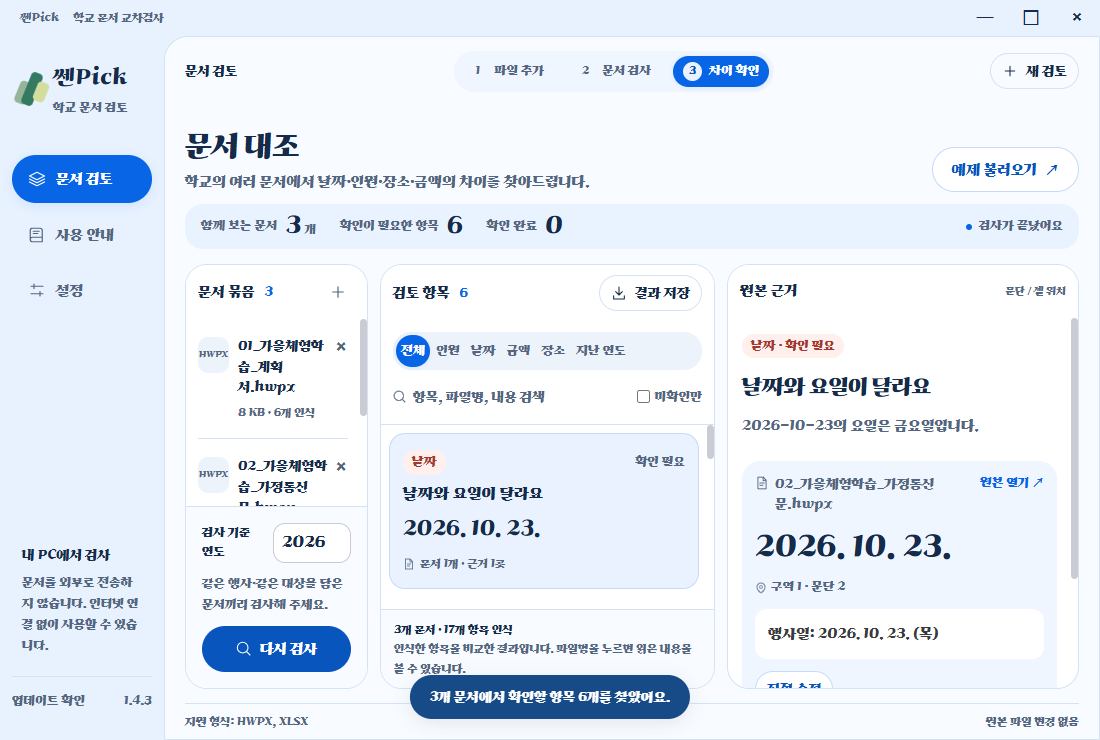
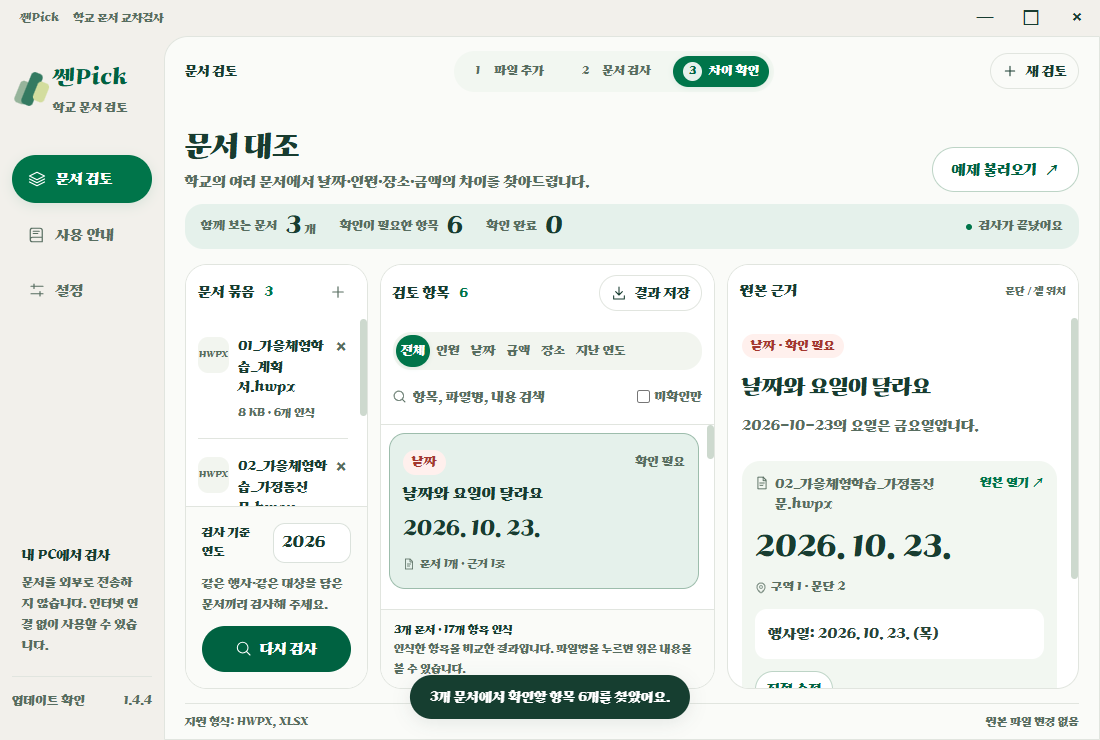
Match SsenImage green palette and refresh showcase for 1.4.4

diff --git a/app/styles.css b/app/styles.css
@@ -5,9 +5,9 @@
   font-weight: 400;
   font-display: swap;
 }
-/* Muse-inspired visual language, implemented locally; not an official Meta UI kit.
+/* Warm neutral and green palette matched to the user-provided SsenImage app reference.
    Surfaces: 22px; nested content and inputs: 14px; interactive pills: 999px. */
-:root { color-scheme: light; --bg: #e8f2ff; --paper: #fff; --ink: #162b49; --muted: #536681; --line: #d4e2f3; --accent: #0866e6; --accent-strong: #0755bd; --accent-soft: #eaf2ff; --surface-blue: #f0f6ff; --highlight: #dbe9ff; --red: #b13930; }
+:root { color-scheme: light; --bg: #f2f0eb; --paper: #fff; --ink: #183c30; --muted: #576d60; --line: #e1e5df; --accent: #00754a; --accent-strong: #006241; --accent-soft: #e5f1eb; --surface-soft: #f2f7f1; --highlight: #d4e9e2; --red: #b13930; }
 * { box-sizing: border-box; font-synthesis: none; }
 [hidden] { display: none !important; }
 body { margin: 0; background: var(--bg); color: var(--ink); font: 14px/1.55 Ghanachocolate, 'Malgun Gothic', sans-serif; overflow: hidden; }
@@ -31,12 +31,12 @@ p { color: var(--muted); }
 .titlebar-label span { margin-left: 12px; }
 .window-actions { display: flex; height: 100%; app-region: no-drag; }
 .window-actions button { border: 0; background: none; width: 46px; font-size: 17px; }
-.window-actions button:hover { background: #e7e8eb; }
+.window-actions button:hover { background: #e9ebe5; }
 .window-actions button:last-child:hover { background: #b6362c; color: #fff; }
 .app-shell { display: flex; height: calc(100dvh - 36px); }
 .sidebar { width: 196px; flex-shrink: 0; padding: 26px 16px 14px; background: var(--bg); display: flex; flex-direction: column; }
 .brand { display: flex; align-items: center; gap: 10px; text-decoration: none; color: var(--ink); font-size: 24px; font-weight: 400; letter-spacing: -.8px; margin: 0 4px 38px; }
-.brand-wordmark { font-family: Ghanachocolate, sans-serif; font-weight: 400; font-synthesis: none; letter-spacing: 0; white-space: nowrap; }
+.brand-wordmark { color: var(--accent-strong); font-family: Ghanachocolate, sans-serif; font-weight: 400; font-synthesis: none; letter-spacing: 0; white-space: nowrap; }
 .brand small { display: block; font-size: 12px; letter-spacing: 0; color: var(--muted); font-weight: 400; margin-top: 4px; white-space: nowrap; }
 .brand-mark { height: 36px; width: 30px; position: relative; display: block; flex-shrink: 0; }
 .brand-mark i { position: absolute; width: 12px; border-radius: 4px; background: #347a61; transform: rotate(22deg); }
@@ -44,14 +44,14 @@ p { color: var(--muted); }
 .brand-mark i:nth-child(2) { height: 34px; left: 10px; }
 .brand-mark i:nth-child(3) { height: 20px; left: 19px; top: 10px; background: #d3dd9e; }
 .nav-item { width: 100%; display: flex; align-items: center; gap: 10px; border: 0; border-radius: 999px; background: none; padding: 13px 16px; color: var(--muted); text-align: left; margin-bottom: 8px; font-size: 14px; min-height: 46px; }
-.nav-item:hover { background: #d8e9ff; }
-.nav-item.active { color: #fff; background: var(--accent); font-weight: 400; box-shadow: 0 3px 12px #0866e61c; }
+.nav-item:hover { background: #d4e9e2; }
+.nav-item.active { color: #fff; background: var(--accent); font-weight: 400; box-shadow: 0 3px 12px #00754a1c; }
 .nav-dot { display: none; }
 .sidebar-note { margin-top: auto; padding: 18px 10px 20px; }
 .sidebar-note strong { font-size: 13px; color: var(--ink); }
 .sidebar-note p { font-size: 12px; line-height: 1.75; margin-top: 7px; }
 .sidebar-footer { display: flex; justify-content: space-between; font-size: 11px; color: var(--muted); margin: 25px 4px 0; }
-main { flex: 1; min-width: 0; min-height: 0; display: flex; flex-direction: column; overflow: hidden; background: #f8fbff; border: 1px solid var(--line); border-radius: 24px 0 0 0; }
+main { flex: 1; min-width: 0; min-height: 0; display: flex; flex-direction: column; overflow: hidden; background: #fafbf8; border: 1px solid var(--line); border-radius: 24px 0 0 0; }
 .page-header { height: 68px; flex-shrink: 0; padding: 0 30px; display: flex; align-items: center; justify-content: space-between; gap: 20px; }
 .breadcrumb { font-size: 13px; }
 .header-actions { display: flex; align-items: center; gap: 16px; }
@@ -62,7 +62,7 @@ main { flex: 1; min-width: 0; min-height: 0; display: flex; flex-direction: colu
 .button svg { width: 16px; height: 16px; }
 .primary { background: var(--accent); color: #fff; }
 .primary:hover:not(:disabled) { background: var(--accent-strong); }
-.secondary { background: var(--paper); border-color: #c6dafa; color: var(--accent-strong); }
+.secondary { background: var(--paper); border-color: #bdd4c6; color: var(--accent-strong); }
 .secondary:hover:not(:disabled), .subtle:hover:not(:disabled) { background: var(--accent-soft); }
 .subtle { background: transparent; border-color: var(--line); color: var(--ink); }
 .small { padding: 7px 11px; min-height: 36px; font-size: 13px; }
@@ -70,8 +70,8 @@ main { flex: 1; min-width: 0; min-height: 0; display: flex; flex-direction: colu
 #review-page:not(.has-files) .heading-row p { margin-top: 10px; }
 #review-page:not(.has-files) #demo { min-height: 36px; font-size: 13px; padding: 7px 14px; background: var(--accent-soft); border: 0; }
 #empty-view { display: flex; flex-direction: column; gap: 24px; width: min(100%,780px); margin: 0 auto; flex: 1; min-height: 0; overflow: auto; padding: 3px; }
-.drop-zone { border: 1px solid #c5dafa; border-radius: 24px; background: #edf5ff; min-height: 244px; cursor: pointer; flex-shrink: 0; }
-.drop-zone:hover, .drop-zone.dragging { background: #e3efff; border-color: var(--accent); }
+.drop-zone { border: 1px solid #dbe2dc; border-radius: 24px; background: #fff; min-height: 244px; cursor: pointer; flex-shrink: 0; }
+.drop-zone:hover, .drop-zone.dragging { background: #edf5ef; border-color: var(--accent); }
 .drop-zone h2 { font-size: 25px; line-height: 1.4; letter-spacing: -.6px; }
 .drop-zone p { font-size: 14px; line-height: 1.85; margin-top: 8px; }
 .drop-zone .button { min-width: 140px; }
@@ -87,7 +87,7 @@ main { flex: 1; min-width: 0; min-height: 0; display: flex; flex-direction: colu
 .page-footer { display: flex; justify-content: space-between; gap: 16px; color: var(--muted); font-size: 11px; border-top: 1px solid var(--line); margin-top: 20px; padding: 12px 0; flex-shrink: 0; }
 .notice { padding: 12px 15px; border-left: 3px solid #986524; background: #fff6e8; border-radius: 3px; margin-bottom: 15px; color: #795322; font-size: 13px; white-space: pre-line; max-height: 115px; overflow: auto; flex-shrink: 0; }
 #workspace { display: flex; flex-direction: column; flex: 1; min-height: 0; }
-.summary-strip { display: flex; align-items: center; background: #e9f2ff; border-radius: 18px; padding: 14px 20px; margin-bottom: 20px; gap: 34px; flex-shrink: 0; }
+.summary-strip { display: flex; align-items: center; background: #e5f1eb; border-radius: 18px; padding: 14px 20px; margin-bottom: 20px; gap: 34px; flex-shrink: 0; }
 .summary-strip>div { display: flex; align-items: center; gap: 10px; }
 .summary-strip>div>div { display: flex; gap: 10px; align-items: center; }
 .summary-icon { display: none; }
@@ -107,7 +107,7 @@ main { flex: 1; min-width: 0; min-height: 0; display: flex; flex-direction: colu
 .file-panel, .result-panel, .detail-panel { display: flex; flex-direction: column; }
 .file-list { overflow-y: auto; flex: 1; min-height: 0; padding: 0 12px; }
 .file-item { display: flex; align-items: flex-start; gap: 9px; padding: 17px 17px 17px 0; border-bottom: 1px solid var(--line); position: relative; }
-.file-type { flex-shrink: 0; width: 36px; height: 36px; border-radius: 10px; background: #edf3fb; color: var(--muted); font-size: 10px; font-weight: 400; display: flex; align-items: center; justify-content: center; margin-top: 1px; }
+.file-type { flex-shrink: 0; width: 36px; height: 36px; border-radius: 10px; background: #f2f5ef; color: var(--muted); font-size: 10px; font-weight: 400; display: flex; align-items: center; justify-content: center; margin-top: 1px; }
 .file-type.xlsx { color: var(--accent); background: var(--accent-soft); }
 .file-text { min-width: 0; flex: 1; }
 .file-name { display: block; border: 0; background: none; padding: 0; text-align: left; font-size: 14px; line-height: 1.6; overflow-wrap: anywhere; }
@@ -115,15 +115,15 @@ main { flex: 1; min-width: 0; min-height: 0; display: flex; flex-direction: colu
 .file-text small { color: var(--muted); font-size: 11px; display: block; margin-top: 6px; }
 .file-remove { position: absolute; top: 13px; right: -7px; width: 28px; height: 28px; padding: 2px 4px; background: none; border: 0; font-size: 18px; color: var(--muted); }
 .file-remove:hover { color: var(--red); }
-.file-bottom { padding: 16px; border-top: 1px solid var(--line); background: #f8fbff; flex-shrink: 0; }
+.file-bottom { padding: 16px; border-top: 1px solid var(--line); background: #fafbf8; flex-shrink: 0; }
 .file-bottom label { display: flex; justify-content: space-between; font-size: 13px; margin-bottom: 8px; }
-.file-bottom input { width: 100%; border: 1px solid #c8cbd1; border-radius: 12px; background: var(--paper); padding: 8px 10px; font-size: 16px; }
+.file-bottom input { width: 100%; border: 1px solid #dbe2dc; border-radius: 12px; background: var(--paper); padding: 8px 10px; font-size: 16px; }
 .file-bottom p { font-size: 12px; line-height: 1.7; margin: 12px 0; }
 .file-bottom .button { width: 100%; }
 .result-tools { padding: 11px 12px 0; border-bottom: 1px solid var(--line); flex-shrink: 0; }
-.filters { display: flex; gap: 2px; flex-wrap: wrap; margin-bottom: 10px; background: #edf3fb; border-radius: 18px; padding: 4px; }
+.filters { display: flex; gap: 2px; flex-wrap: wrap; margin-bottom: 10px; background: #f2f5ef; border-radius: 18px; padding: 4px; }
 .filter { background: none; border: 0; border-radius: 999px; font-size: 13px; padding: 6px 7px; min-height: 32px; color: var(--muted); }
-.filter.active { background: var(--accent); color: #fff; font-weight: 400; box-shadow: 0 1px 5px #0866e61a; }
+.filter.active { background: var(--accent); color: #fff; font-weight: 400; box-shadow: 0 1px 5px #00754a1a; }
 .search-row { display: flex; align-items: center; gap: 6px; margin-bottom: 10px; }
 .search-row>span svg { width: 14px; height: 14px; color: var(--muted); }
 .search-row>input { width: 80px; min-width: 0; flex: 1; font-size: 13px; border: 0; padding: 7px 0; background: none; }
@@ -132,8 +132,8 @@ main { flex: 1; min-width: 0; min-height: 0; display: flex; flex-direction: colu
 .search-row input[type=checkbox] { width: 13px; height: 13px; accent-color: var(--accent); margin: 0; }
 .result-list { flex: 1; min-height: 0; overflow-y: auto; padding: 8px; }
 .issue-card { width: 100%; text-align: left; background: var(--paper); border: 1px solid transparent; border-radius: 16px; padding: 16px 13px; display: block; margin-bottom: 5px; }
-.issue-card:hover { background: #f6f7f9; }
-.issue-card.selected { background: var(--accent-soft); border-color: #c5d9fb; }
+.issue-card:hover { background: #f5f6f2; }
+.issue-card.selected { background: var(--accent-soft); border-color: #9dbdac; }
 .issue-top { display: flex; align-items: center; justify-content: space-between; margin-bottom: 7px; gap: 6px; }
 .tag { font-size: 12px; display: inline-flex; align-items: center; border-radius: 999px; background: #fff4e3; color: #795322; padding: 3px 9px; }
 .tag.error { background: #fff0ed; color: #a4372e; }
@@ -144,10 +144,10 @@ main { flex: 1; min-width: 0; min-height: 0; display: flex; flex-direction: colu
 .issue-source { display: flex; align-items: center; gap: 5px; font-size: 11px; color: var(--muted); margin-top: 10px; }
 .issue-source svg { height: 12px; width: 12px; }
 .issue-card.reviewed .issue-status { color: var(--accent); }
-.coverage-note { font-size: 11px; color: var(--muted); background: #f8fbff; border-top: 1px solid var(--line); padding: 10px 13px; line-height: 1.75; flex-shrink: 0; }
+.coverage-note { font-size: 11px; color: var(--muted); background: #fafbf8; border-top: 1px solid var(--line); padding: 10px 13px; line-height: 1.75; flex-shrink: 0; }
 .coverage-note b { color: var(--ink); }
 .empty-state { text-align: center; display: flex; flex-direction: column; align-items: center; justify-content: center; height: 100%; min-height: 180px; padding: 24px 16px; }
-.state-icon { margin-bottom: 14px; color: #777b82; }
+.state-icon { margin-bottom: 14px; color: #718378; }
 .state-icon svg { height: 25px; width: 25px; }
 .empty-state h3 { font-size: 16px; margin-bottom: 10px; }
 .empty-state p { font-size: 13px; line-height: 1.8; }
@@ -157,7 +157,7 @@ main { flex: 1; min-width: 0; min-height: 0; display: flex; flex-direction: colu
 .detail-inner { padding: 20px 18px; }
 .detail-title { font-size: 23px; line-height: 1.45; letter-spacing: -.7px; margin: 14px 0 10px; }
 .detail-description { font-size: 14px; line-height: 1.8; margin-bottom: 23px; }
-.evidence { background: var(--surface-blue); border-radius: 18px; padding: 17px; margin-bottom: 14px; }
+.evidence { background: var(--surface-soft); border-radius: 18px; padding: 17px; margin-bottom: 14px; }
 .evidence-top { display: flex; align-items: flex-start; gap: 6px; font-size: 13px; color: var(--muted); }
 .evidence-top span { overflow-wrap: anywhere; flex: 1; }
 .evidence-top svg { width: 14px; height: 14px; flex-shrink: 0; margin-top: 2px; }
@@ -166,7 +166,7 @@ main { flex: 1; min-width: 0; min-height: 0; display: flex; flex-direction: colu
 .evidence-value { font-size: 30px; color: var(--ink); font-weight: 400; margin: 12px 0 10px; word-break: break-word; line-height: 1.4; font-variant-numeric: tabular-nums; }
 .evidence-location { font-size: 12px; color: var(--muted); display: flex; align-items: center; gap: 4px; }
 .evidence-location svg { width: 12px; height: 12px; }
-.excerpt { background: #fff; border-radius: 12px; margin-top: 12px; padding: 12px 13px; font-size: 14px; line-height: 1.85; color: #383b40; overflow-wrap: anywhere; white-space: pre-line; }
+.excerpt { background: #fff; border-radius: 12px; margin-top: 12px; padding: 12px 13px; font-size: 14px; line-height: 1.85; color: #284638; overflow-wrap: anywhere; white-space: pre-line; }
 .detail-bottom { border-top: 1px solid var(--line); padding-top: 17px; }
 .detail-bottom .button { width: 100%; }
 .detail-bottom p { font-size: 11px; color: var(--muted); margin-top: 9px; line-height: 1.7; }
@@ -174,28 +174,28 @@ main { flex: 1; min-width: 0; min-height: 0; display: flex; flex-direction: colu
 .guide-intro { margin: 10px 0 28px; font-size: 14px; }
 .eyebrow { display: none; }
 .guide-grid { display: grid; grid-template-columns: 1fr 1fr; gap: 26px 36px; counter-reset: guide; }
-.guide-grid article { padding: 24px; border: 0; border-radius: 22px; background: var(--surface-blue); display: grid; grid-template-columns: 36px 1fr; column-gap: 15px; align-content: start; }
+.guide-grid article { padding: 24px; border: 0; border-radius: 22px; background: var(--surface-soft); display: grid; grid-template-columns: 36px 1fr; column-gap: 15px; align-content: start; }
 .step { display: grid; place-items: center; width: 36px; height: 36px; border-radius: 50%; background: #fff; grid-row: span 2; color: var(--ink); font-size: 14px; font-weight: 400; font-variant-numeric: tabular-nums; }
 .guide-grid h2 { margin-bottom: 10px; font-size: 20px; letter-spacing: -.4px; }
 .guide-grid p { font-size: 14px; line-height: 1.85; }
 .guide-limits { padding: 24px; margin-top: 26px; flex-shrink: 0; }
 .guide-limits ul { padding-left: 19px; color: var(--muted); line-height: 1.9; font-size: 13px; margin: 15px 0 22px; }
 .guide-limits li+li { margin-top: 7px; }
-dialog { border: 1px solid #d4e2f3; box-shadow: 0 24px 80px #20242e24; border-radius: 26px; padding: 32px; width: 480px; color: var(--ink); background: var(--paper); max-height: calc(100dvh - 48px); overflow: auto; }
-dialog::backdrop { background: #23263050; }
+dialog { border: 1px solid #e1e5df; box-shadow: 0 24px 80px #203a3024; border-radius: 26px; padding: 32px; width: 480px; color: var(--ink); background: var(--paper); max-height: calc(100dvh - 48px); overflow: auto; }
+dialog::backdrop { background: #17372950; }
 dialog h2 { font-size: 28px; letter-spacing: -.8px; }
 dialog p { font-size: 14px; line-height: 1.8; margin: 12px 0 25px; }
-.dialog-close { position: absolute; right: 16px; top: 16px; width: 40px; height: 40px; padding: 0; font-size: 22px; background: #eaf2ff; }
+.dialog-close { position: absolute; right: 16px; top: 16px; width: 40px; height: 40px; padding: 0; font-size: 22px; background: #e5f1eb; }
 .export-option { width: 100%; background: var(--paper); border: 1px solid var(--line); border-radius: 16px; display: flex; align-items: center; gap: 12px; padding: 16px; margin-top: 12px; text-align: left; }
-.export-option:hover { background: var(--accent-soft); border-color: #b9cdea; }
+.export-option:hover { background: var(--accent-soft); border-color: #9dbdac; }
 .format-mark { font-size: 11px; font-weight: 400; color: var(--accent); min-width: 37px; }
 .export-option b { display: block; font-size: 14px; }
 .export-option small { display: block; font-size: 12px; color: var(--muted); margin-top: 5px; }
 .export-option>span:last-child { margin-left: auto; color: var(--muted); }
 .dialog-actions { display: flex; justify-content: flex-end; gap: 8px; }
-.toast { position: fixed; bottom: 21px; left: 50%; transform: translateX(-50%); background: #164b87; color: #fff; border-radius: 999px; padding: 12px 20px; box-shadow: 0 4px 18px #20242e18; font-size: 13px; z-index: 100; max-width: 80vw; overflow-wrap: anywhere; }
+.toast { position: fixed; bottom: 21px; left: 50%; transform: translateX(-50%); background: #163e30; color: #fff; border-radius: 999px; padding: 12px 20px; box-shadow: 0 4px 18px #203a3018; font-size: 13px; z-index: 100; max-width: 80vw; overflow-wrap: anywhere; }
 ::-webkit-scrollbar { width: 7px; height: 7px; }
-::-webkit-scrollbar-thumb { background: #c9ccd2; border-radius: 5px; }
+::-webkit-scrollbar-thumb { background: #cdd9ce; border-radius: 5px; }
 ::-webkit-scrollbar-track { background: transparent; }
 @keyframes pulse { 50% { opacity: .35; } }
 @media (prefers-reduced-motion: reduce) {
@@ -204,27 +204,27 @@ dialog p { font-size: 14px; line-height: 1.8; margin: 12px 0 25px; }
 .update-entry { display:flex; align-items:center; gap:8px; padding:15px 0; width:100%; border:0; border-top:1px solid var(--line); background:transparent; color:var(--muted); font:inherit; font-size:12px; cursor:pointer; }
 .update-entry:hover { color:var(--accent); }
 #app-version { margin-left:auto; }
-#update-dot { color:#0866e6; font-size:9px; }
+#update-dot { color:#00754a; font-size:9px; }
 #update-dialog { width: 500px; }
 #settings-update-heading { font-size:14px; font-weight:400; }
 .maker-credit { display: flex; align-items: baseline; justify-content: space-between; gap: 10px; margin-top: 28px; padding-top: 22px; border-top: 1px solid var(--line); }
 .maker-credit span { font-size:12px; color:var(--muted); }
 .maker-credit strong { font-size: 26px; font-weight: 400; letter-spacing: -.6px; color: var(--ink); }
-#update-version { color:#536681; font-size:13px; }
-#update-message { min-height:48px; color:#162b49; font-size:15px; line-height:1.65; }
-#update-progress { width:100%; height:8px; accent-color:#0866e6; }
-.update-note { font-size:12px; color:#536681; line-height:1.7; border-top:1px solid #d4e2f3; padding-top:16px; }
+#update-version { color:#576d60; font-size:13px; }
+#update-message { min-height:48px; color:#183c30; font-size:15px; line-height:1.65; }
+#update-progress { width:100%; height:8px; accent-color:#00754a; }
+.update-note { font-size:12px; color:#576d60; line-height:1.7; border-top:1px solid #e1e5df; padding-top:16px; }
 
 /* File entry is an action surface; review evidence remains text-first. */
 .drop-copy { padding: 26px 28px; display: flex; flex-direction: column; align-items: flex-start; }
-.upload-symbol { display: grid; place-items: center; width: 42px; height: 42px; background: #d9eaff; border-radius: 14px; color: var(--ink); margin-bottom: 16px; }
+.upload-symbol { display: grid; place-items: center; width: 42px; height: 42px; background: #dfede2; border-radius: 14px; color: var(--ink); margin-bottom: 16px; }
 .upload-symbol svg { width: 23px; height: 23px; }
 .upload-actions { display: flex; width: 100%; align-items: center; justify-content: space-between; gap: 20px; margin-top: 24px; }
 .file-support strong { color: var(--ink); font-size: 13px; }
-.workflow { display: flex; align-items: center; gap: 12px; list-style: none; padding: 5px; margin: 0; color: var(--muted); font-size: 12px; background: var(--surface-blue); border-radius: 999px; }
+.workflow { display: flex; align-items: center; gap: 12px; list-style: none; padding: 5px; margin: 0; color: var(--muted); font-size: 12px; background: var(--surface-soft); border-radius: 999px; }
 .workflow li { display: flex; align-items: center; gap: 7px; white-space: nowrap; padding: 6px 10px; border-radius: 999px; }
 .workflow li>span { font-size: 11px; width: 19px; height: 19px; display: inline-grid; place-items: center; border-radius: 50%; }
-.workflow [aria-current] { font-weight: 400; color: #fff; background: var(--accent); box-shadow: 0 1px 6px #0866e61a; }
+.workflow [aria-current] { font-weight: 400; color: #fff; background: var(--accent); box-shadow: 0 1px 6px #00754a1a; }
 .workflow [aria-current]>span { background: var(--accent-soft); color: var(--accent-strong); }
 .has-files .heading-row { margin-bottom: 18px; }
 .has-files h1 { font-size: 32px; letter-spacing: -1px; }
@@ -244,8 +244,8 @@ dialog p { font-size: 14px; line-height: 1.8; margin: 12px 0 25px; }
 #edit-dialog { width: 630px; }
 #edit-location { overflow-wrap: anywhere; margin-bottom: 18px; font-size: 13px; }
 #edit-fields h3, #edit-fields label { display: block; font-size: 14px; font-weight: 400; margin-bottom: 8px; }
-#edit-original { white-space: pre-wrap; overflow-wrap: anywhere; max-height: 115px; overflow: auto; padding: 12px 14px; margin: 0 0 18px; background: var(--surface-blue); border-radius: 14px; font: 14px/1.8 Ghanachocolate, sans-serif; }
-#edit-text { display: block; width: 100%; min-height: 96px; max-height: 230px; resize: vertical; padding: 12px 14px; border: 1px solid #bfc4cc; border-radius: 14px; background: var(--paper); font-size: 15px; line-height: 1.8; }
+#edit-original { white-space: pre-wrap; overflow-wrap: anywhere; max-height: 115px; overflow: auto; padding: 12px 14px; margin: 0 0 18px; background: var(--surface-soft); border-radius: 14px; font: 14px/1.8 Ghanachocolate, sans-serif; }
+#edit-text { display: block; width: 100%; min-height: 96px; max-height: 230px; resize: vertical; padding: 12px 14px; border: 1px solid #bdd4c6; border-radius: 14px; background: var(--paper); font-size: 15px; line-height: 1.8; }
 #edit-hint { margin: 8px 0 18px; font-size: 12px; }
 #edit-error { margin: 12px 0; padding: 10px 12px; background: #fff0ed; color: var(--red); border-left: 3px solid var(--red); }
 .edit-save-note { border-top: 1px solid var(--line); padding-top: 15px; font-size: 13px; }

diff --git a/README.md b/README.md
@@ -1,6 +1,6 @@
 # 쎈Pick
 
-**쎈Pick**은 앱 화면·HTML 검사 결과에 가나초콜릿체를 사용합니다. 1.4.4 설치 프로그램에는 프리텐다드를 적용하고 글자 크기와 여백을 다듬었습니다.
+**쎈Pick**은 따뜻한 회백색 바탕에 녹색 버튼과 민트색 강조를 사용합니다. 앱 화면·HTML 검사 결과는 가나초콜릿체, 설치 프로그램은 프리텐다드로 구성했습니다.
 
 학교의 여러 문서에서 날짜·인원·장소·금액의 차이를 찾아드립니다.
 
@@ -73,7 +73,7 @@
 
 사이드바의 **설정**에서도 현재 버전과 업데이트를 확인할 수 있습니다. 설정 하단에는 제작자 **HooniKim**을 표시합니다.
 
-1.4.1에서는 Meta Muse를 참고한 화면을 파란색 중심으로 조정했습니다. 옅은 파란 바탕과 흰 문서 패널, 파란 버튼을 사용합니다. [화면 개편 기록](docs/MUSE-UI.md)을 참고하세요.
+1.4.4에서는 쎈img의 색감을 참고해 회백색 바탕, 흰 문서 패널, 짙은 녹색 버튼과 민트색 선택 표시로 다듬었습니다. 이름은 쎈Pick 그대로 유지합니다. [이전 화면 개편 기록](docs/MUSE-UI.md)을 참고하세요.
 
 ## 지원하는 기능
 

diff --git a/CHANGELOG.md b/CHANGELOG.md
@@ -2,6 +2,7 @@
 
 ## 1.4.4
 
+- 쎈Pick 이름을 유지하고, 쎈img의 색감을 참고해 회백색 바탕·녹색 버튼·민트색 선택 표시로 앱 전체 색상을 정리했습니다.
 - 설치 프로그램에 프리텐다드를 적용하고 제목·안내·보조 문구의 크기와 여백을 조정했습니다. 문서 이미지와 짙은 녹색을 사용한 설치 시작·완료 화면을 다듬었습니다.
 - 앱 화면과 HTML 검사 결과는 가나초콜릿체를 사용합니다. 예제 스크린샷 5장과 기능 소개를 제공합니다.
 
